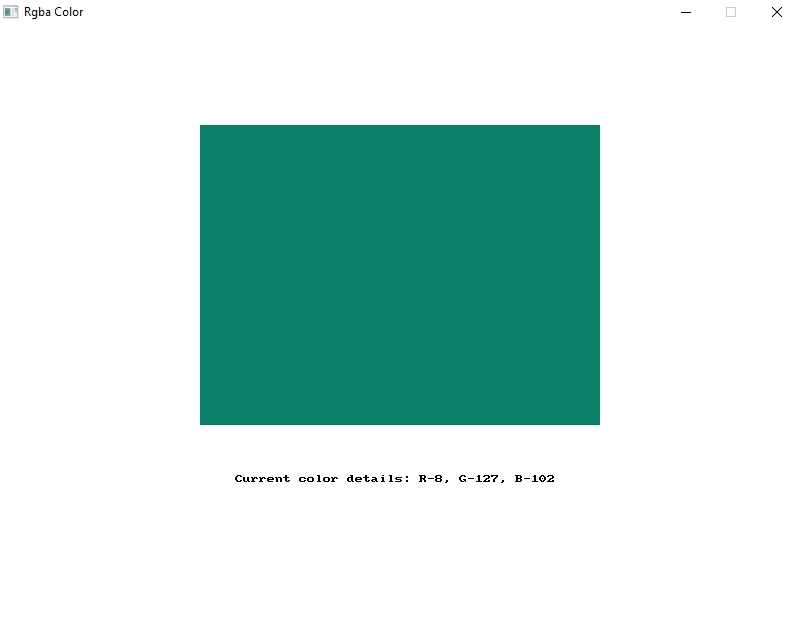
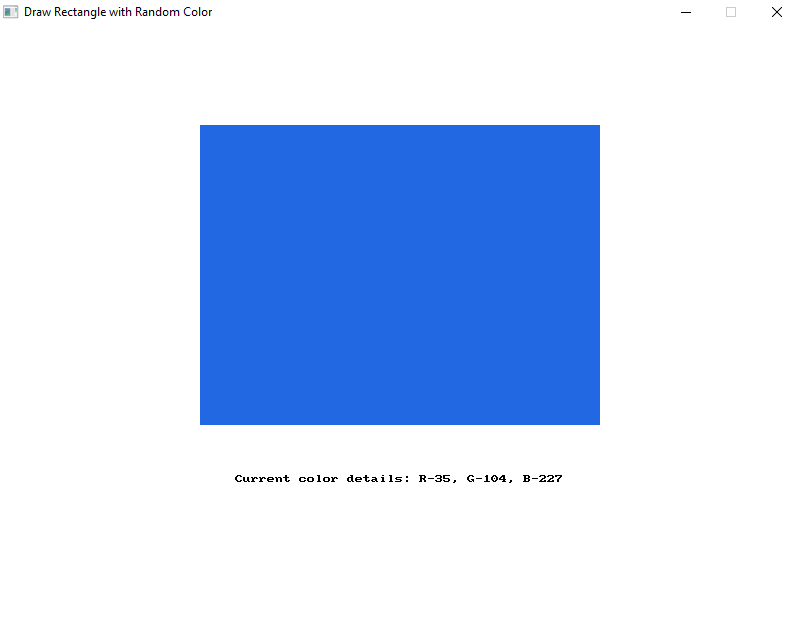
Add files via upload

Changed region(s): [[0.25, 0.1824, 0.75, 0.6992], [0.0312, 0.0, 0.2812, 0.0304], [0.5625, 0.76, 0.6875, 0.7904]]

diff --git a/public/usage-examples/color/rgba_color-1-example-oop.cs b/public/usage-examples/color/rgba_color-1-example-oop.cs
@@ -6,17 +6,18 @@ namespace RgbaColorExample
     {
         public static void Main()
         {
-            SplashKit.OpenWindow("Rgba Color", 800, 600);
+            SplashKit.OpenWindow("Draw Rectangle with Random Color", 800, 600);
 
             int random_red = new Random().Next(0, 255);
             int random_green = new Random().Next(0, 255);
             int random_blue = new Random().Next(0, 255);
-            // Function used here ↓
+            // The function creates a color which is saved to a color variable. In this example a random red, green and blue value is inputted. Alpha/opacity is also set to the maximum
             Color color = SplashKit.RGBAColor(random_red, random_green, random_blue, 255);
             Rectangle rectangle = SplashKit.RectangleFrom(200, 100, 400, 300);
 
             SplashKit.ClearScreen(Color.White);
             SplashKit.FillRectangle(color, rectangle);
+            // Show RGBA values of the randomly generated color
             SplashKit.DrawText("Current color details: R-" + random_red.ToString() + ", G-" + random_green.ToString() + ", B-" + random_blue.ToString(), Color.Black, 235, 450);
             SplashKit.RefreshScreen();
 

diff --git a/public/usage-examples/color/rgba_color-1-example.cpp b/public/usage-examples/color/rgba_color-1-example.cpp
@@ -3,7 +3,7 @@
 
 int main()
 {
-    open_window("Rgba Color", 800, 600);
+    open_window("Draw Rectangle with Random Color", 800, 600);
 
     // A random number generator is created to provide rgb values
     std::random_device rd;  
@@ -15,12 +15,13 @@ int main()
     int random_red = dist(gen);
     int random_green = dist(gen);
     int random_blue = dist(gen);
-    // Function used here ↓
+    // The function creates a color which is saved to a color variable. In this example a random red, green and blue value is inputted. Alpha/opacity is also set to the maximum
     color color = rgba_color(random_red, random_green, random_blue, 255);
     rectangle rectangle = rectangle_from(200, 100, 400, 300);
 
     clear_screen(color_white());
     fill_rectangle(color, rectangle);
+    // Show RGBA values of the randomly generated color
     draw_text("Current color details: R-" + std::to_string(random_red) + ", G-" + std::to_string(random_green) + ", B-" + std::to_string(random_blue), color_black(), 235, 450);
     refresh_screen();
 

diff --git a/public/usage-examples/color/rgba_color-1-example-top-level.cs b/public/usage-examples/color/rgba_color-1-example-top-level.cs
@@ -1,17 +1,18 @@
 using SplashKitSDK;
 using static SplashKitSDK.SplashKit;
 
-OpenWindow("Rgba Color", 800, 600);
+OpenWindow("Draw Rectangle with Random Color", 800, 600);
 
 int random_red = new Random().Next(0, 255);
 int random_green = new Random().Next(0, 255);
 int random_blue = new Random().Next(0, 255);
-// Function used here ↓
+// The function creates a color which is saved to a color variable. In this example a random red, green and blue value is inputted. Alpha/opacity is also set to the maximum
 Color color = RGBAColor(random_red, random_green, random_blue, 255);
 Rectangle rectangle = RectangleFrom(200, 100, 400, 300);
 
 ClearScreen(ColorWhite());
 FillRectangle(color, rectangle);
+// Show RGBA values of the randomly generated color
 DrawText("Current color details: R-" + random_red.ToString() + ", G-" + random_green.ToString() + ", B-" + random_blue.ToString(), ColorBlack(), 235, 450);
 RefreshScreen();
 

diff --git a/public/usage-examples/color/rgba_color-1-example.py b/public/usage-examples/color/rgba_color-1-example.py
@@ -1,17 +1,18 @@
 from splashkit import *
 import random
 
-open_window("Rgba Color", 800, 600)
+open_window("Draw Rectangle with Random Color", 800, 600)
 
 random_red = random.randint(0, 255)
 random_green = random.randint(0, 255)
 random_blue = random.randint(0, 255)
-# Function used here ↓
+# The function creates a color which is saved to a color variable. In this example a random red, green and blue value is inputted. Alpha/opacity is also set to the maximum
 color = rgba_color(random_red, random_green, random_blue, 255)
 rectangle = rectangle_from(200, 100, 400, 300)
 
 clear_screen(color_white())
 fill_rectangle_record(color, rectangle)
+# Show RGBA values of the randomly generated color
 draw_text_no_font_no_size("Current color details: R-" + str(random_red) + ", G-" + str(random_green) + ", B-" +str(random_blue), color_black(), 235, 450)
 refresh_screen()
 
